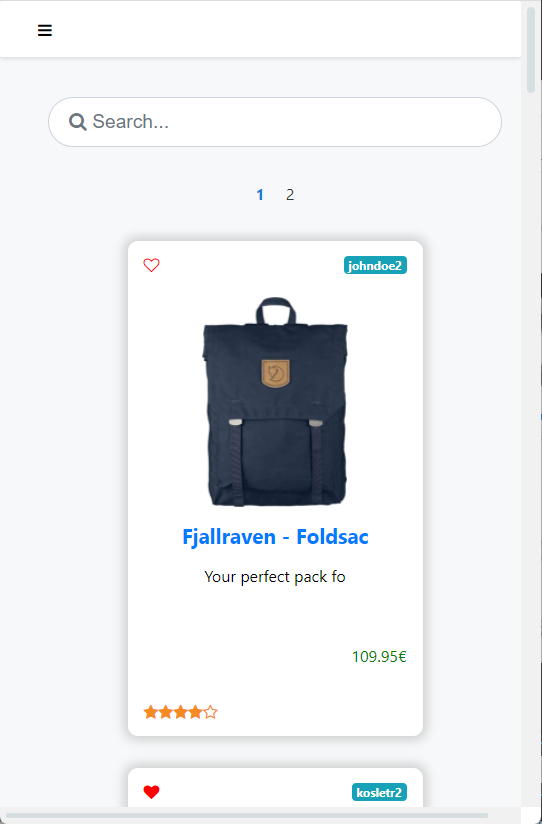
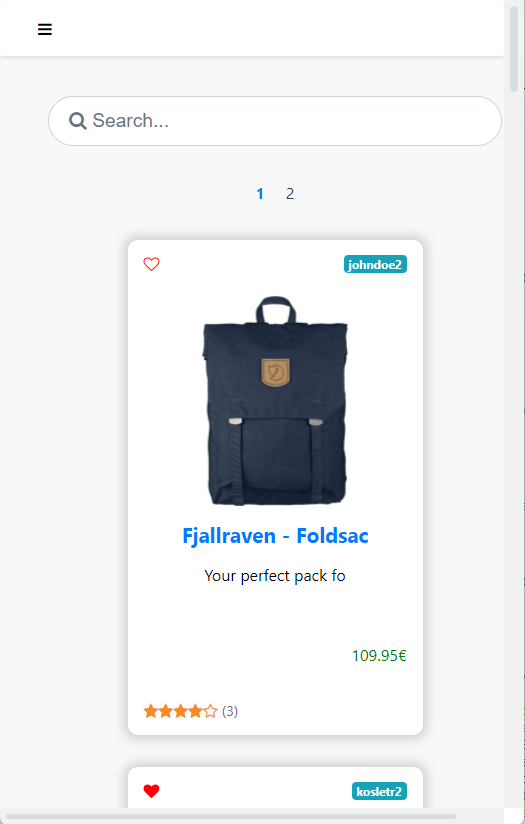
Complete rating component.

diff --git a/client-app/src/components/product/products.jsx b/client-app/src/components/product/products.jsx
@@ -12,9 +12,7 @@ import {
   getLikedProductIds,
   addLikeToProduct,
   removeLikeFromProduct,
-  getRatedProductIds,
-  addRatingToProduct,
-  removeRatingFromProduct,
+  getTotalRatings
 } from "../../services/userService";
 
 
@@ -37,19 +35,15 @@ export default function Products() {
       if (authService.getCurrentUser() != null) {
         // Get User's Likes
         const { data: likedProductIds } = await getLikedProductIds();
-
-        receivedProducts.forEach((p) => {
-          p.liked = likedProductIds.includes(p._id);
-        });
-
-        // Get User's Ratings
-        const { data: ratings } = await getRatedProductIds();
-
-        ratings.forEach((r) => {
-          let p_index = receivedProducts.findIndex((p) => p._id === r.productId);
-          if (p_index >= 0) receivedProducts[p_index].rating = r.rating;
-        });
+        receivedProducts.forEach(p => p.liked = likedProductIds.includes(p._id));
       }
+      // Get Total Ratings
+      const { data: ratings } = await getTotalRatings();
+
+      receivedProducts.forEach(p => {
+        const product = ratings.find(ratedProd => p._id === ratedProd._id);
+        p.rating = product ? [product.total, product.size] : [0, 0];
+      });
       setCategories(receivedCategories);
       setProducts(receivedProducts);
     }());
@@ -73,40 +67,6 @@ export default function Products() {
     await (!products[index].liked)
       ? addLikeToProduct(productId)
       : removeLikeFromProduct(productId);
-  };
-
-  /* Rating Component */
-
-  async function handleSaveRating(rating, productId) {
-    if (authService.getCurrentUser() == null) {
-      history.push("/login");
-      return;
-    }
-
-    const prods = [...products]
-    const index = prods.findIndex((p) => p._id === productId);
-    prods[index] = { ...prods[index] };
-
-    prods[index].rating = rating;
-    setProducts(prods);
-
-    await addRatingToProduct(productId, rating);
-  };
-
-  async function handleRemoveRating(productId) {
-    if (authService.getCurrentUser() == null) {
-      history.push("/login");
-      return;
-    }
-
-    const prods = [...products]
-    const index = prods.findIndex((p) => p._id === productId);
-    prods[index] = { ...prods[index] };
-
-    prods[index].rating = 0;
-    setProducts(prods);
-
-    await removeRatingFromProduct(productId);
   };
 
   /* Pagination Component */
@@ -178,9 +138,7 @@ export default function Products() {
               data={pageProducts}
               cardDetails={["_id", "title", "price", "shortDesc", "imageURL", "liked", "rating", "owner"]}
               extraProps={{
-                onLike: handleLike,
-                onSaveRating: handleSaveRating,
-                onRemoveRating: handleRemoveRating,
+                onLike: handleLike
               }}
             />
           </div>

diff --git a/client-app/src/components/utils/rating.jsx b/client-app/src/components/utils/rating.jsx
@@ -1,6 +1,6 @@
 import React, { useState } from "react";
 
-function Rating({ _id, rating, onSaveRating, onRemoveRating }) {
+function Rating({ _id, rating, hoverEnabled = true, onSaveRating, onRemoveRating }) {
   const [hoverRating, setHoverRating] = useState(0);
 
   return (
@@ -12,6 +12,7 @@ function Rating({ _id, rating, onSaveRating, onRemoveRating }) {
             key={index}
             index={index}
             rating={rating}
+            hoverEnabled={hoverEnabled}
             hoverRating={hoverRating}
             onMouseEnter={(index) => setHoverRating(index)}
             onMouseLeave={() => setHoverRating(0)}
@@ -29,6 +30,7 @@ function RatingStar(props) {
     _id,
     index,
     rating,
+    hoverEnabled,
     hoverRating,
     onMouseEnter,
     onMouseLeave,
@@ -44,20 +46,27 @@ function RatingStar(props) {
     );
   }, [rating, hoverRating, index]);
 
-  return (
-    <i
-      className={fill}
-      aria-hidden="true"
-      style={{ cursor: "pointer", color: "#f68b24" }}
-      onMouseEnter={() => onMouseEnter(index)}
-      onMouseLeave={() => onMouseLeave()}
-      onClick={() => {
-        rating === undefined || rating === 0 || rating !== index
-          ? onSaveRating(index, _id)
-          : onRemoveRating(_id)
-      }}
-    />
-  );
+  return hoverEnabled ?
+    (
+      <i
+        className={fill}
+        aria-hidden="true"
+        style={{ cursor: "pointer", color: "#f68b24" }}
+        onMouseEnter={() => onMouseEnter(index)}
+        onMouseLeave={() => onMouseLeave()}
+        onClick={() => {
+          rating === undefined || rating === 0 || rating !== index
+            ? onSaveRating(index, _id)
+            : onRemoveRating(_id)
+        }}
+      />
+    ) : (
+      <i
+        className={fill}
+        aria-hidden="true"
+        style={{ color: "#f68b24" }}
+      />
+    )
 }
 
 export default Rating;

diff --git a/server-app/routes/products.js b/server-app/routes/products.js
@@ -1,5 +1,7 @@
 const router = require("express").Router();
+const mongoose = require("mongoose");
 const { Product } = require("../models/product");
+const { Rate } = require("../models/rate");
 
 /* Get all Products */
 
@@ -10,5 +12,24 @@ router.get("/", async (req, res) => {
     .select("-__v");
   return res.send(products);
 });
+
+router.get("/ratings/stats", async (req, res) => {
+  const ratings = await getRatings();
+  return res.send(ratings);
+});
+
+function getRatings() {
+  return Rate.aggregate([
+    { $group: { _id: "$productId", size: { $count: {} }, total: { $sum: "$rating" } } },
+  ]);
+}
+
+// async function getProductRatingStats(productId) {
+//   const productRatings = (await Rate.aggregate([
+//     { $match: { productId: mongoose.Types.ObjectId(productId) } },
+//     { $group: { _id: null, size: { $count: {} }, total: { $sum: "$rating" } } },
+//     { $project: { _id: false } }
+//   ]))[0];
+// }
 
 module.exports = router;

diff --git a/client-app/src/components/utils/listCards.jsx b/client-app/src/components/utils/listCards.jsx
@@ -31,10 +31,11 @@ function Card({
   owner,
   liked,
   onLike,
-  rating,
-  onSaveRating,
-  onRemoveRating,
+  rating
 }) {
+
+  const [sumOfRatings, ratingsCount] = rating;
+
   return (
     <div className="my-card">
       <div className="my-card-header">
@@ -54,7 +55,12 @@ function Card({
         </div>
       </div>
       <div className="my-card-footer">
-        <Rating _id={_id} rating={rating} onSaveRating={onSaveRating} onRemoveRating={onRemoveRating} />
+        <Rating _id={_id} rating={ratingsCount > 0 ? Math.round(sumOfRatings / ratingsCount) : 0} hoverEnabled={false} />
+        <span
+          style={{ cursor: "pointer", fontSize: "0.9rem", color: "#707070", margin: "0 0 0 4px" }}
+        >
+          {ratingsCount > 0 ? `(${ratingsCount})` : ""}
+        </span>
       </div>
     </div>
   );

diff --git a/client-app/src/components/product/productDetailsPage.jsx b/client-app/src/components/product/productDetailsPage.jsx
@@ -73,8 +73,13 @@ export function ProductPage() {
           </span>
         </div>
         <div className="product-details-description">
-          <Rating _id={_id} rating={rating}
-            onSaveRating={handleSaveRating} onRemoveRating={handleRemoveRating} />
+          <div style={{ display: "flex" }}>
+            <p style={{ margin: "0 8px 0 0", fontWeight: "bold" }}>
+              Vote:
+            </p>
+            <Rating _id={_id} rating={rating}
+              onSaveRating={handleSaveRating} onRemoveRating={handleRemoveRating} />
+          </div>
           <h4>Description</h4>
           <p>{description}</p>
         </div>

diff --git a/client-app/src/services/userService.js b/client-app/src/services/userService.js
@@ -1,6 +1,7 @@
 import http from "./httpService";
 import config from "../config.json";
 
+const productsUrl = config.apiUrl + "/products/ratings/stats";
 const userProductsUrl = config.apiUrl + "/users/products";
 const userLikesUrl = config.apiUrl + "/users/likes";
 const userRatingsUrl = config.apiUrl + "/users/ratings";
@@ -63,4 +64,8 @@ export function addRatingToProduct(productId, rating) {
 
 export function removeRatingFromProduct(productId) {
   return http.delete(`${userRatingsUrl}/${productId}`);
+}
+
+export function getTotalRatings() {
+  return http.get(productsUrl);
 }

diff --git a/client-app/src/index.css b/client-app/src/index.css
@@ -337,7 +337,7 @@ body {
 }
 
 .my-page:hover {
-  background-color: #f3f3f3;
+  background-color: white;
 }
 
 table {
